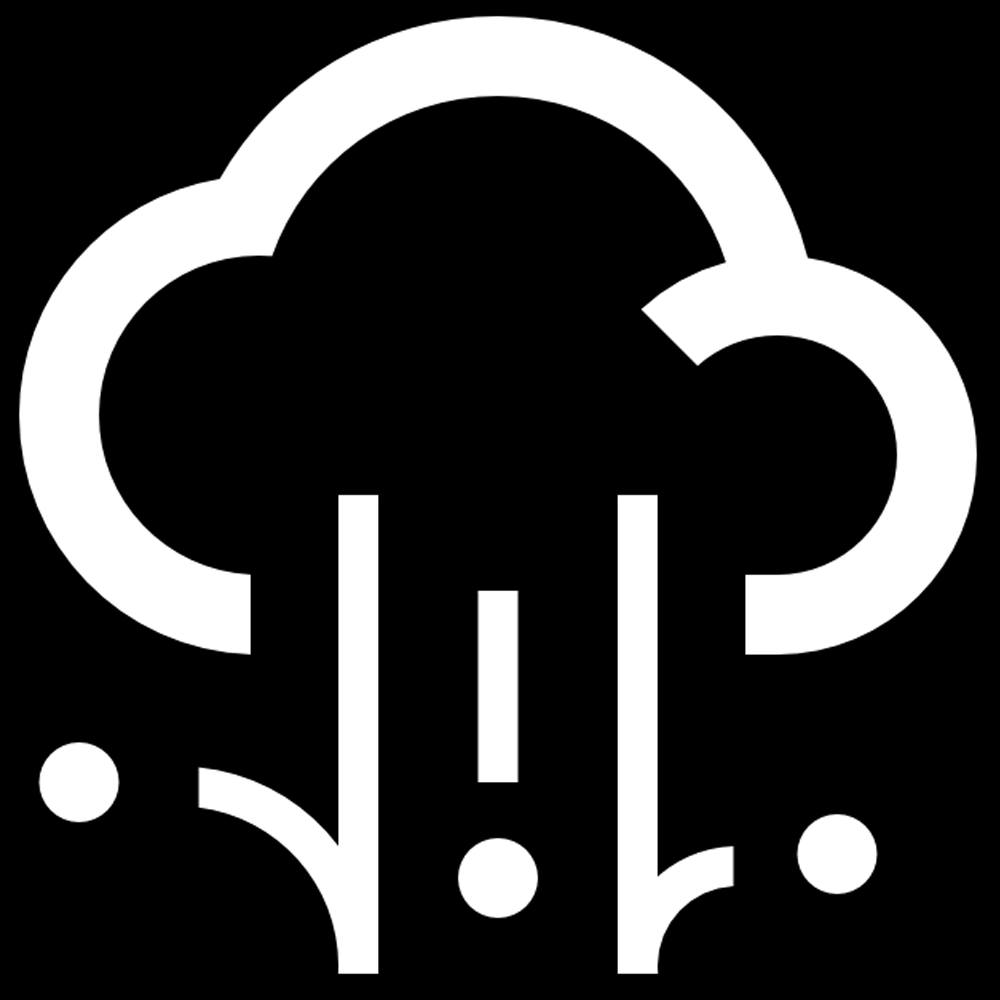
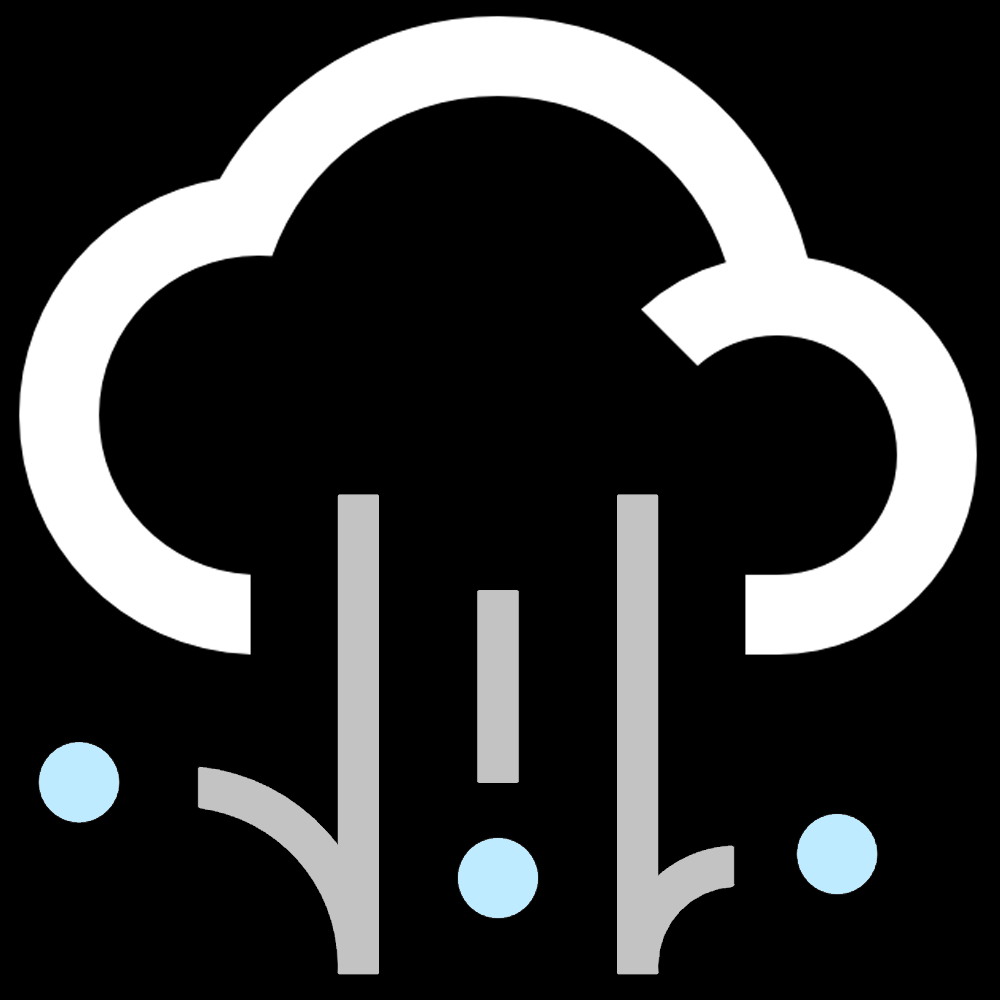
Added Colors to PNG Images

diff --git a/Mirror.py b/Mirror.py
@@ -1,25 +1,26 @@
 from __future__ import print_function
-import time
-from tkinter import *
-import tkinter.font
-from forecastiopy import *
-import json
-import datetime
-import requests
-import feedparser
-import traceback
-from PIL import ImageTk, Image
-import httplib2
-import os
 
+import datetime
+import json
+import os
+import time
+import tkinter.font
+import traceback
+from tkinter import *
+
+import feedparser
+import httplib2
+import requests
+from PIL import ImageTk, Image
 from apiclient import discovery
+from forecastiopy import *
 from oauth2client import client
 from oauth2client import tools
 from oauth2client.file import Storage
 
-
 try:
     import argparse
+
     flags = argparse.ArgumentParser(parents=[tools.argparser]).parse_args()
 except ImportError:
     flags = None
@@ -30,7 +31,6 @@ large_text_size = 48
 medium_text_size = 28
 small_text_size = 18
 x_small_text_size = 14
-
 
 # tk objects
 root = Tk()
@@ -48,7 +48,6 @@ frame_calendar = Frame(frame_t_left, background='black')
 frame_calendar_image = Frame(frame_calendar, background='black')
 frame_calendar_events = Frame(frame_calendar, background='black')
 
-
 frame_t_right = Frame(frame_top, background='black')
 frame_weather = Frame(frame_t_right, background='black')
 frame_current_high_low = Frame(frame_weather, background='black')
@@ -59,7 +58,6 @@ frame_days_icon = Frame(frame_forecast, background='black')
 frame_temp_high = Frame(frame_forecast, background='black')
 frame_temp_low = Frame(frame_forecast, background='black')
 
-
 frame_b_left = Frame(frame_bottom, background='black')
 frame_news = Frame(frame_b_left, background='black')
 frame_newspaper = Frame(frame_b_left, background='black')
@@ -67,7 +65,6 @@ frame_newspaper = Frame(frame_b_left, background='black')
 frame_b_right = Frame(frame_bottom, background='black')
 
 root.geometry('{}x{}'.format(screen_width, screen_height))
-
 
 # Fonts
 font_time = tkinter.font.Font(family='Helvetica', size=x_large_text_size)
@@ -81,7 +78,7 @@ font_news = tkinter.font.Font(family='Helvetica', size=x_small_text_size)
 font_news_headlines = tkinter.font.Font(family='Helvetica', size=medium_text_size)
 
 # Weather
-file_object = open('C:/Users/Jackson/Desktop/API_Key.txt')
+file_object = open('API_Key.txt')
 weather_api_key = file_object.read()
 file_object.close()
 # latitude =   # North +, South -, East +, West -
@@ -99,7 +96,6 @@ google_news_url = "https://news.google.com/news?ned=us&output=rss"
 SCOPES = 'https://www.googleapis.com/auth/calendar.readonly'
 CLIENT_SECRET_FILE = 'client_secret.json'
 APPLICATION_NAME = 'Google Calendar API Python Quickstart'
-
 
 # Asset images with launch word
 weatherIcons = {"cloudy": 'assets/Cloud.png',
@@ -128,7 +124,6 @@ image_calendar = Image.open("assets/Calendar.png")
 image_calendar = image_calendar.resize((25, 25), Image.ANTIALIAS)
 image_calendar = image_calendar.convert('RGB')
 photo_calendar = ImageTk.PhotoImage(image_calendar)
-
 
 # Labels
 weather_image_lg = Label(frame_weather, bg='black', fg='white')
@@ -166,7 +161,6 @@ label_temperature.pack(side=LEFT, anchor=E)
 label_current_temp_high.pack(side=LEFT, anchor=E)
 label_current_temp_low.pack(side=RIGHT, anchor=E)
 
-
 # Layout Bottom Left
 label_news_title.pack(side=TOP, anchor=W)
 
@@ -186,7 +180,6 @@ def tick():
 
 # Displays Location name and weather data for location
 def current_weather():
-
     for w in frame_temp_high.winfo_children():
         w.destroy()
     for t in frame_temp_low.winfo_children():
@@ -273,7 +266,8 @@ def current_weather():
 
         daily_temperature_high = int(day['temperatureHigh'])
         daily_temperature_low = int(day['temperatureLow'])
-        if label_current_temp_high['text'] != daily_temperature_high and label_current_temp_low['text'] != daily_temperature_low:
+        if label_current_temp_high['text'] != daily_temperature_high and label_current_temp_low[
+            'text'] != daily_temperature_low:
             label_temp_high['text'] = format(daily_temperature_high, '.0f') + "°" + "/"
             label_temp_low['text'] = format(daily_temperature_low, '.0f') + "°"
 
@@ -286,7 +280,6 @@ def current_weather():
 
 
 def get_news():
-
     for widget in frame_news.winfo_children():
         widget.destroy()
     for i in frame_newspaper.winfo_children():
@@ -382,15 +375,15 @@ def get_calendar():
         label_calender_image.icon = photo_calendar
 
         start = event['start'].get('dateTime', event['start'].get('date'))
-        #if len(test_split) > 1:
-            #event_date = test_split[0]
-            #event_time = test_split[1]
+        # if len(test_split) > 1:
+        # event_date = test_split[0]
+        # event_time = test_split[1]
 
-            #date_object = datetime.datetime.strptime(event_date, "%Y-%m-%d")
-            #time_object = datetime.datetime.strptime(event_time, "%I:%M%p-%I:%M%p")
+        # date_object = datetime.datetime.strptime(event_date, "%Y-%m-%d")
+        # time_object = datetime.datetime.strptime(event_time, "%I:%M%p-%I:%M%p")
 
-            #event_day = datetime.datetime.strftime(date_object, "%a")
-            #label_calender['text'] = event['summary'] + ' ' + event_day
+        # event_day = datetime.datetime.strftime(date_object, "%a")
+        # label_calender['text'] = event['summary'] + ' ' + event_day
 
         label_calender['text'] = event['summary'] + ' ' + start
         label_calender.pack(side=TOP, anchor=W)
@@ -426,4 +419,3 @@ frame_newspaper.pack(side=LEFT, anchor=W)
 frame_top.pack(expand=TRUE, fill=BOTH, side=TOP)
 frame_bottom.pack(expand=TRUE, fill=BOTH, side=BOTTOM)
 root.mainloop()
-
